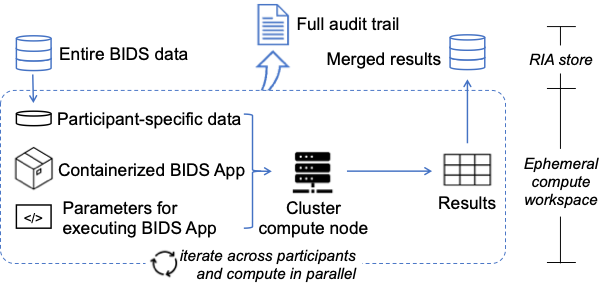
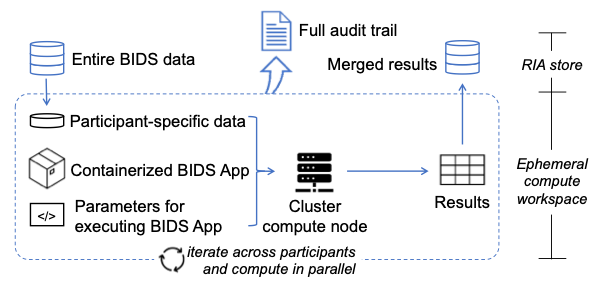
add babs cli figure; change README; add background to babs workflow figure

diff --git a/README.rst b/README.rst
@@ -1,6 +1,3 @@
-.. If changed this file, please also copy to `README.rst` in the root dir
-    notice that, any paths need to be changed accordingly!
-
 
 BABS: BIDS App Bootstrap
 ===============================
@@ -11,9 +8,21 @@ BABS: BIDS App Bootstrap
 .. image:: https://circleci.com/gh/PennLINC/babs/tree/main.svg?style=svg
   :target: https://circleci.com/gh/PennLINC/babs/tree/main
 
+Full documentation at https://pennlinc-babs.readthedocs.io
+
+About
+---------
 BIDS App Bootstrap (BABS) is a reproducible, generalizable, and
 scalable python package for BIDS App analysis of large datasets.
-It uses DataLad and adopts FAIRly big framework.
+It uses `DataLad <https://www.datalad.org/>`_ and adopts
+`FAIRly big framework <https://doi.org/10.1038/s41597-022-01163-2>`_.
 
-.. image:: docs/source/_static/babs_workflow.png
-.. ^^ add `docs/source/` if in the README.rst in root dir!
+BABS functions
+---------------------
+.. image:: https://github.com/PennLINC/babs/raw/enh/docs/docs/source/_static/babs_cli.png
+.. ^^ change `enh/docs` to `main` after merging the branch into main!
+
+Schematic of BABS workflow
+----------------------------
+.. image:: https://github.com/PennLINC/babs/raw/enh/docs/docs/source/_static/babs_workflow.png
+.. ^^ change `enh/docs` to `main` after merging the branch into main!

diff --git a/docs/source/index.rst b/docs/source/index.rst
@@ -1,6 +1,6 @@
 
-.. include:: README.rst
-
+.. include:: ../../README.rst
+.. include:: links.rst
 
 Documentations
 ==================

diff --git a/docs/source/links.rst b/docs/source/links.rst
@@ -1,0 +1,2 @@
+.. _datalad_org: https://www.datalad.org/
+.. _fairly_big_paper: https://doi.org/10.1038/s41597-022-01163-2
